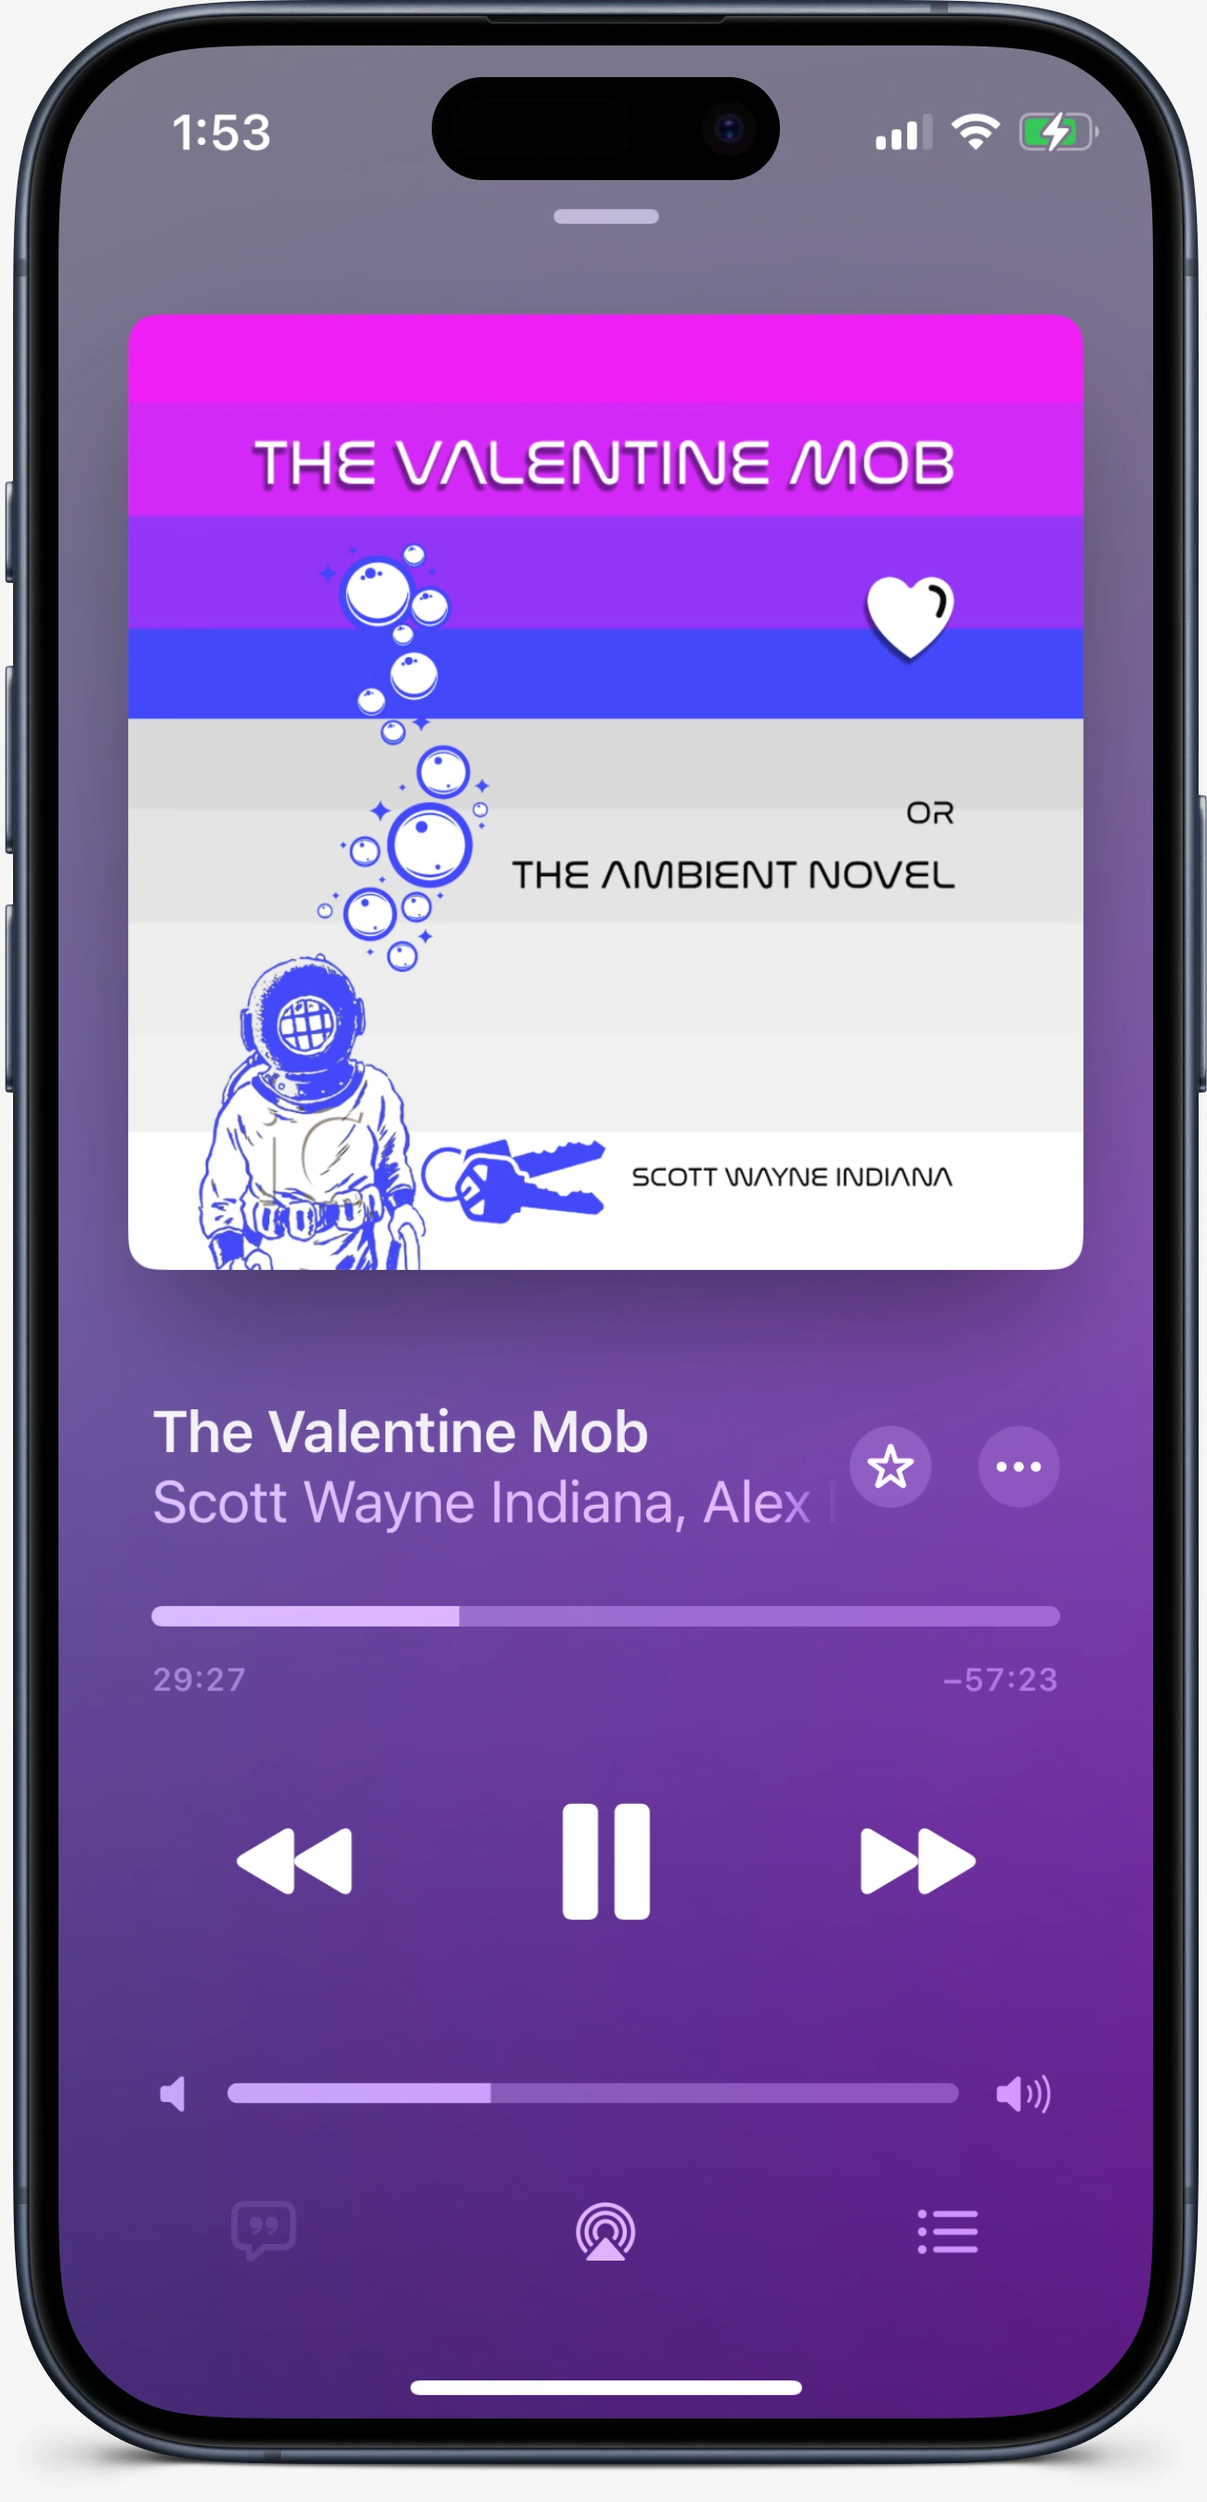
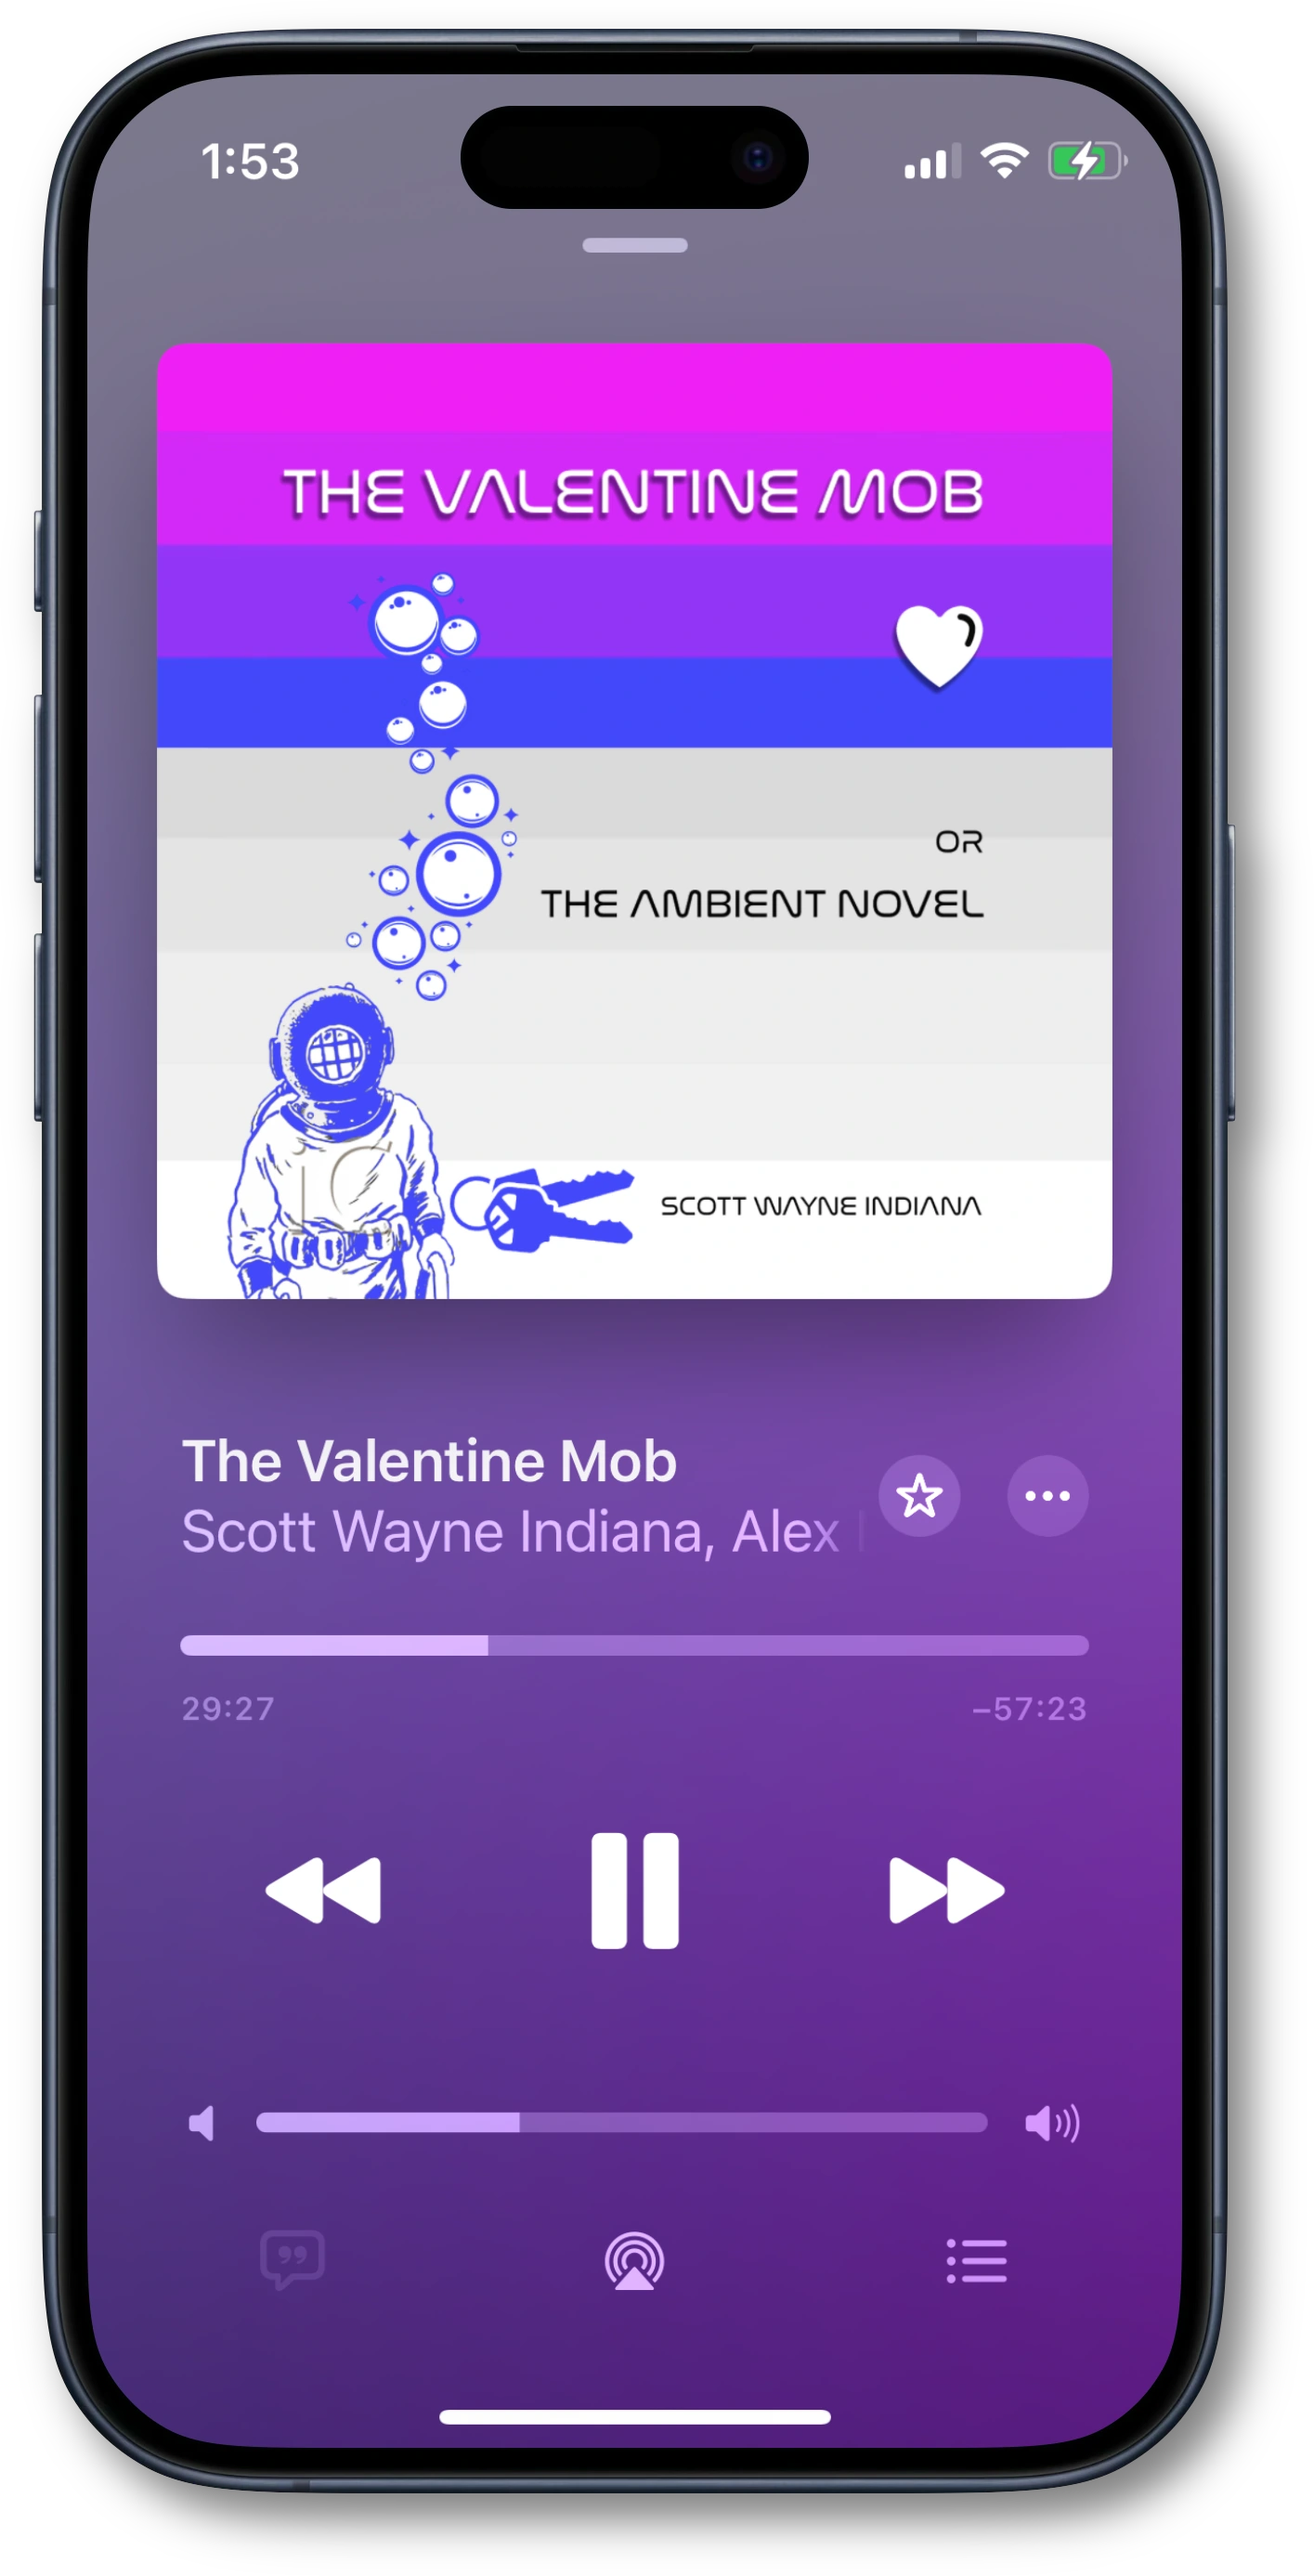
Responsive image fixes.

diff --git a/src/lib/components/FancyLink.svelte b/src/lib/components/FancyLink.svelte
@@ -41,27 +41,29 @@
 		box-shadow: 5px 5px 5px 0 rgb(0 0 0 / 15%);
 	}
 
+	a > div:first-child {
+		overflow: hidden;
+		place-self: stretch stretch;
+		border-radius: 1rem 0 0 1rem;
+		box-shadow: 10px 0 20px -5px rgb(0 0 0 / 10%);
+	}
+
 	@media (width <= 600px) {
 		a {
 			grid-template-columns: 1fr;
 			grid-template-rows: 1fr 1fr;
 		}
-	}
 
-	a > div:first-child {
-		overflow: hidden;
-		display: grid;
-		place-self: stretch stretch;
-		align-items: center;
-		justify-content: center;
-		border-radius: 1rem 0 0 1rem;
-		box-shadow: 10px 0 20px -5px rgb(0 0 0 / 10%);
+		a > div:first-child {
+			border-radius: 1rem 1rem 0 0;
+			box-shadow: 0 10px 20px -5px rgb(0 0 0 / 10%);
+		}
 	}
 
 	a > div:last-child {
 		display: grid;
 		justify-items: center;
-		padding: 2rem;
+		padding: 1.5rem;
 		text-align: center;
 	}
 
@@ -73,17 +75,25 @@
 
 	a img {
 		transform: scale(1);
-		width: auto;
-		max-width: none;
+		width: 100%;
+		height: 100%;
 		max-height: 18rem;
+		margin: auto;
 		padding: 1.5rem;
-		transition: transform 0.1s ease-in-out;
+		object-fit: contain;
+		transition: transform 0.2s ease-in-out;
 	}
 
+	a:active,
 	a:hover {
 		background-color: rgb(255 255 255 / 60%);
 	}
 
+	a:active {
+		background-color: white;
+	}
+
+	a:active img,
 	a:hover img {
 		transform: scale(1.05);
 		transition: transform 0.1s ease-in-out;

diff --git a/src/routes/book/+page.svelte b/src/routes/book/+page.svelte
@@ -90,9 +90,9 @@
 		downloadLink={true}
 		href="{base}/audio-book/The Valentine Mob - Complete Audio Book.mp3"
 		icon={faCloudArrowDown}
-		imageHeight={2695}
+		imageHeight={2774}
 		imagePath="{base}/images/audio.webp"
-		imageWidth={1300}
+		imageWidth={1415}
 		openInNewTab={false}
 	>
 		The author narrates the Valentine Mob over original ambient tracks.<br />
